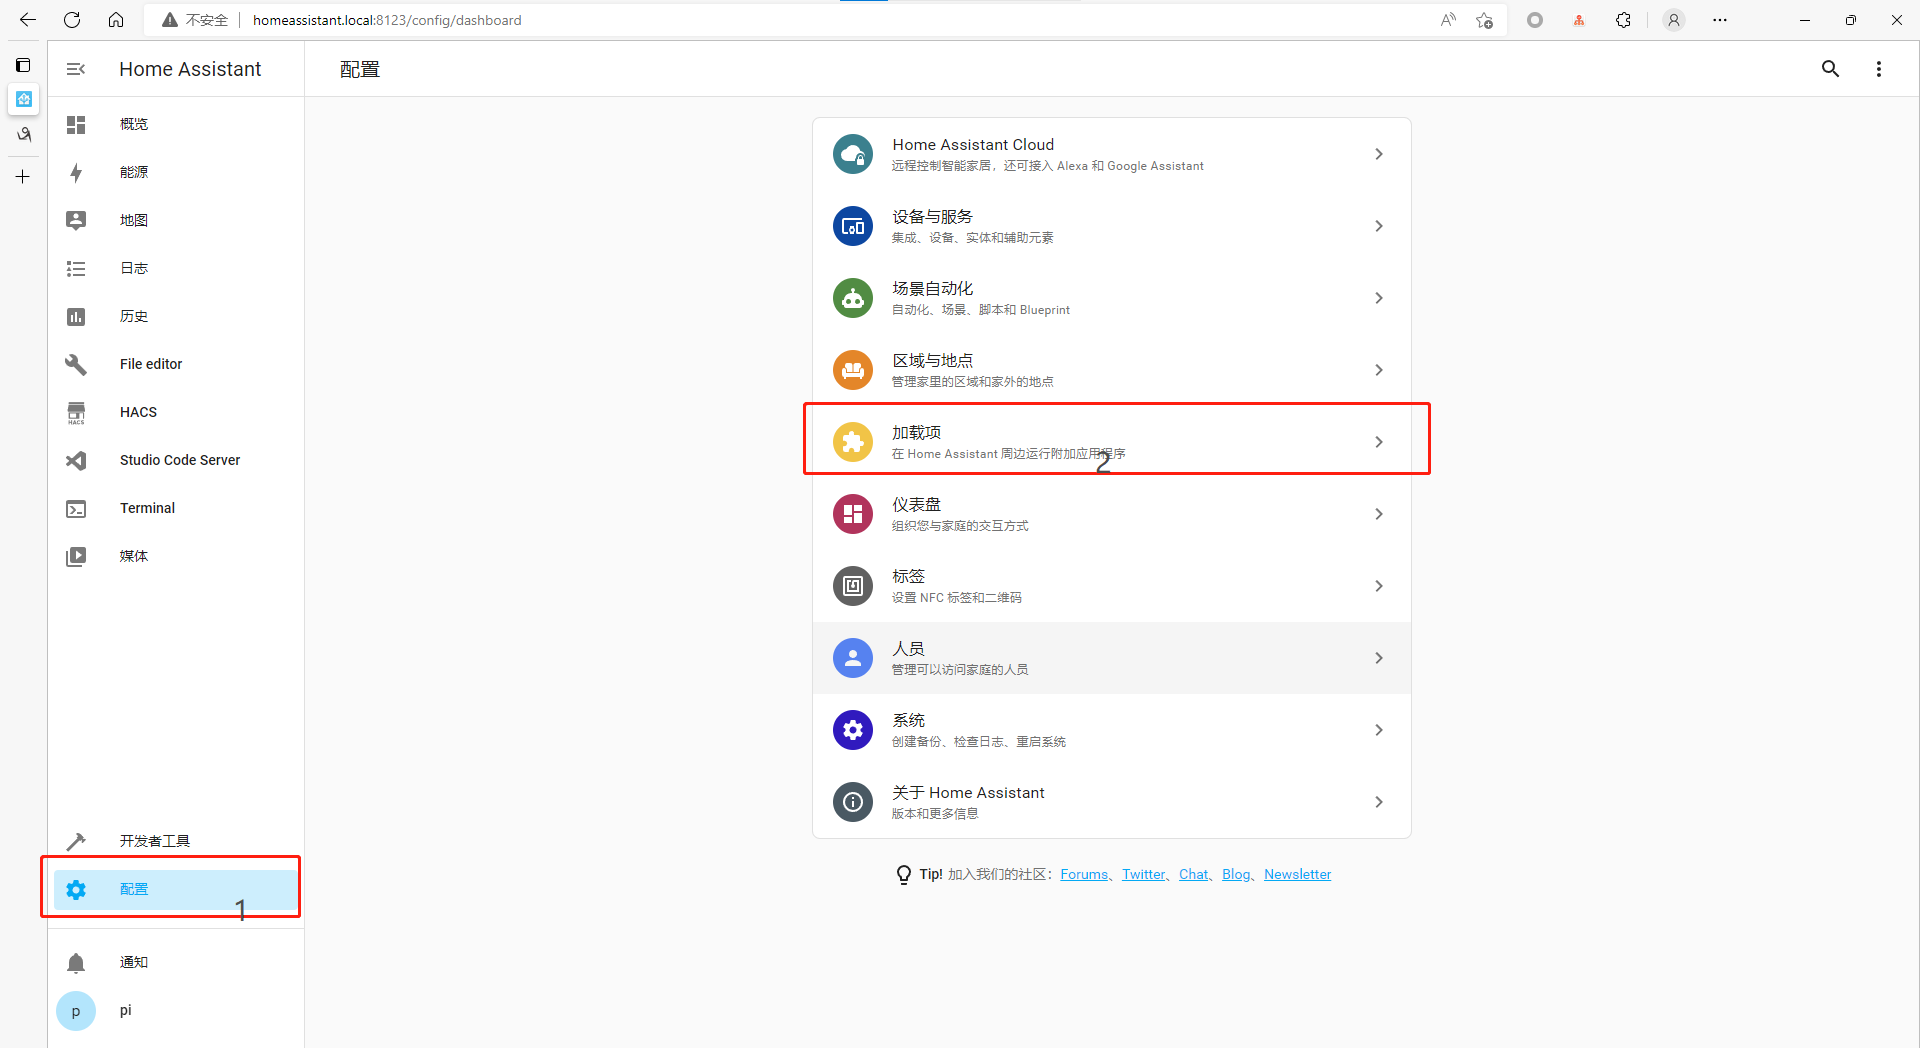
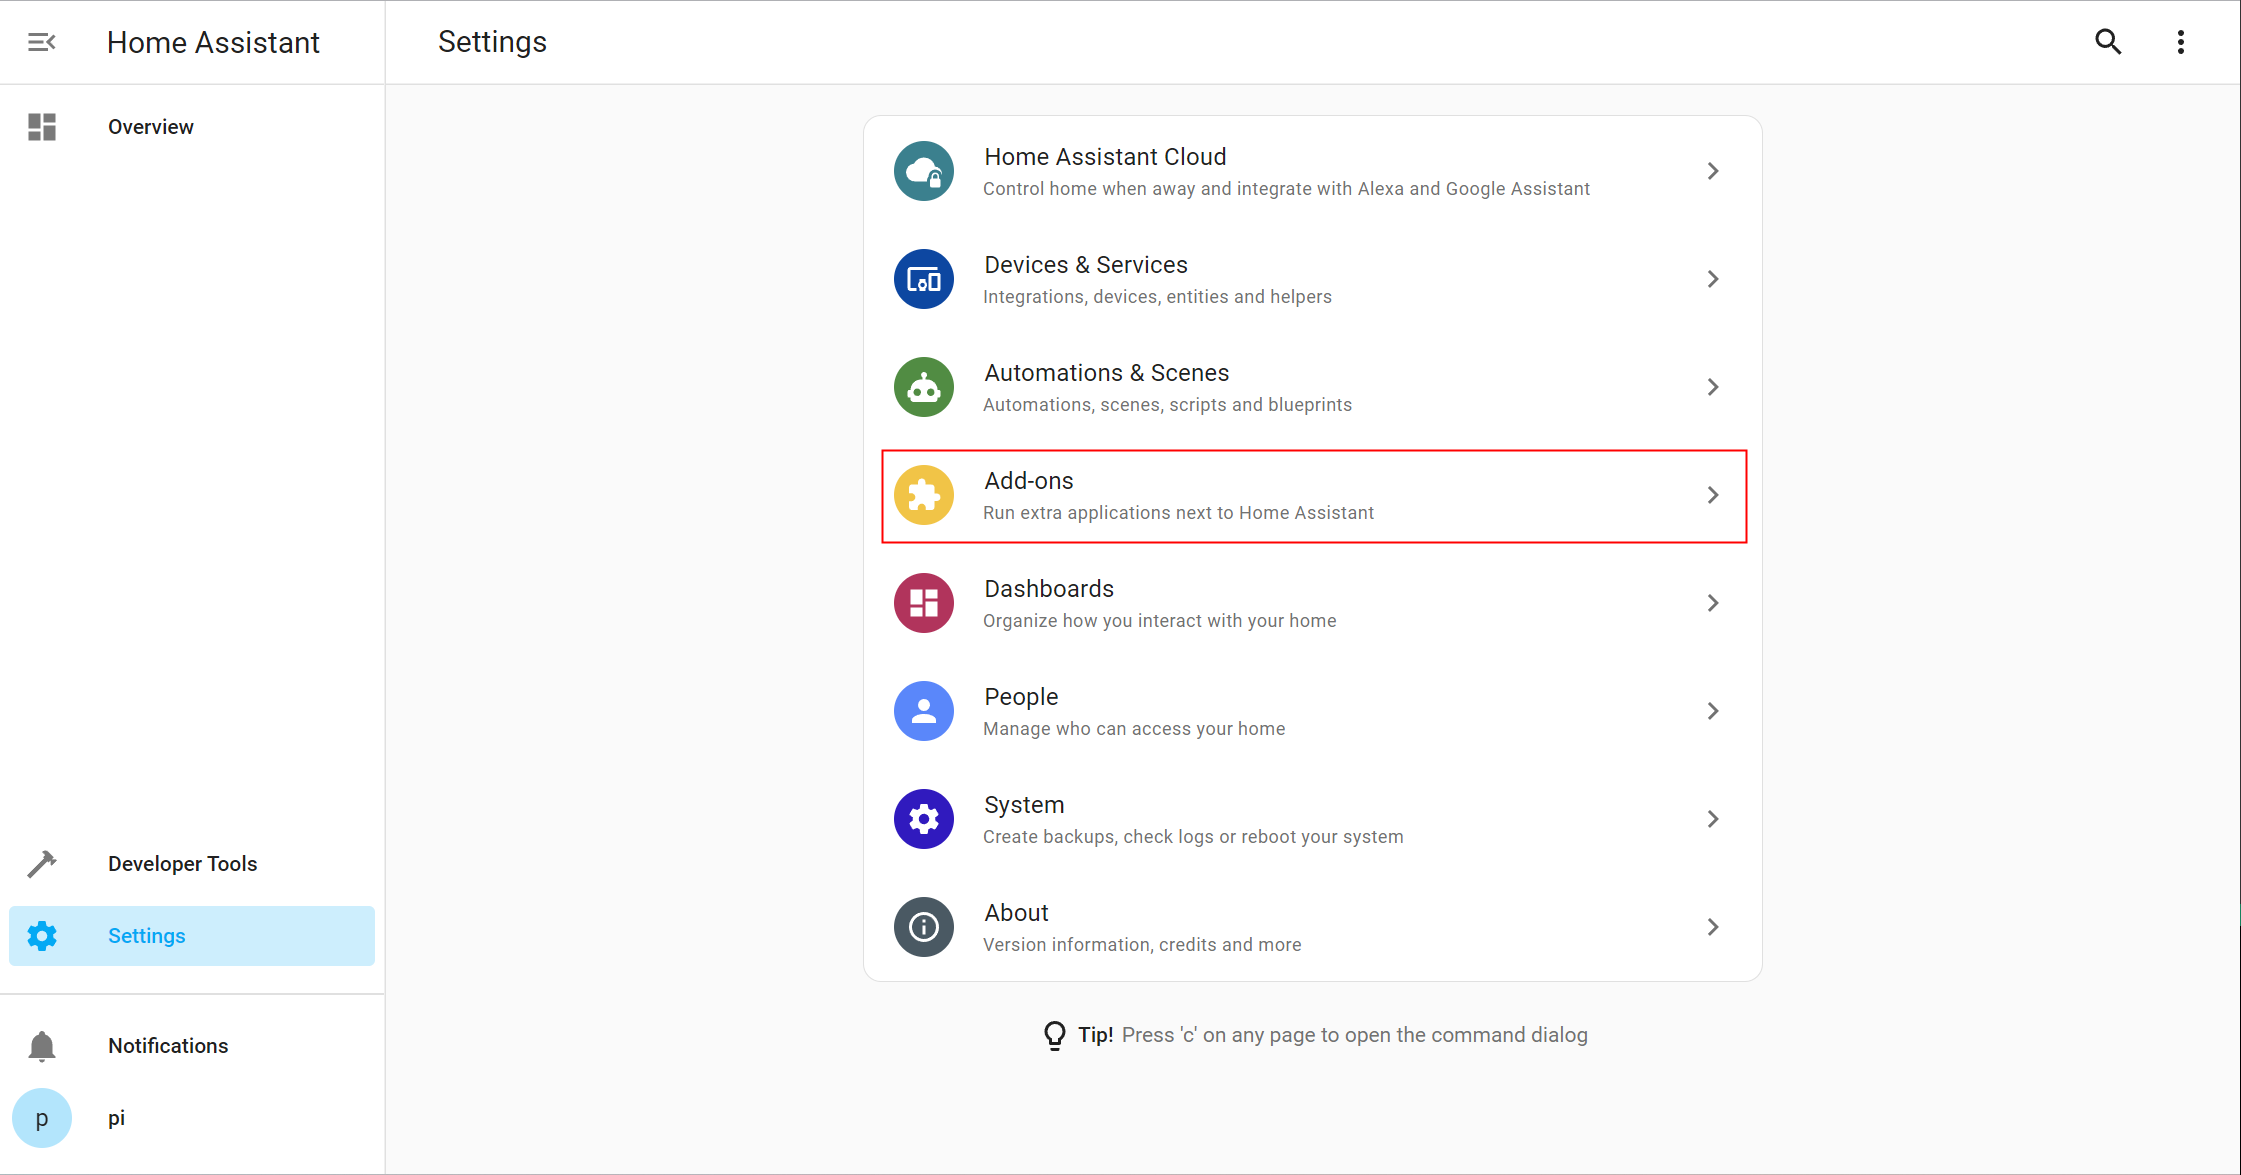
update readme

diff --git a/README.md b/README.md
@@ -1,36 +1,37 @@
-1. 点击 :配置 -> 加载项
+# Use the tutorial
+
+1. click : Settings -> Add-ones.
 
    ![1](img/1.png)
 
-2. 进入加载项页面,点击 加载项商店
+2. Go to the add-ons page, click **ADD ON STORE.**
 
    ![2](img/2.png)
 
-3. 进入加载项商店,点击 右上角红框标注的菜单按钮
+3. Enter the add on store, click the menu button marked with the red box in the upper right corner.
 
    ![3](img/3.png)
 
-4. 点击仓库
+4. Click **Repositories**
 
     ![4](img/4.png)
 
-5. 弹出添加仓库,输入仓库地址 https://github.com/UCTRONICS/U6143_HA ,点击添加,可以在3处看到添加的仓库
+5. Pop-up Add repositories, enter the repositories address <https://github.com/UCTRONICS/UCTRONICS_RM0004_HA> ,Click to **ADD**.
 
     ![5](img/5.png)
 
-6. 返回加载项商店,点击检查更新.
+6. Go back to the add-on store and click Check for **Updates**.
 
    ![6](img/6.png)
 
-7. 可以查看到刚刚添加的仓库和加载项
+7. You can view the repositories and add-ins just added.
 
    ![7](img/7.png)
 
-8. 点击要安装的加载项,等待安装成功后,禁止保护模式然后启动.
+8. Click on the add-on you want to install, wait for the installation to succeed, disable **Protection mode** and start it.
 
    ![8](img/8.png)
 
-9. 然后可以看到 **lcd** 屏显示信息
+9. Then you can see the information displayed on the lcd screen.
 
-   ![9](img/9.jpeg)
-
+   ![9](img/9.png)
